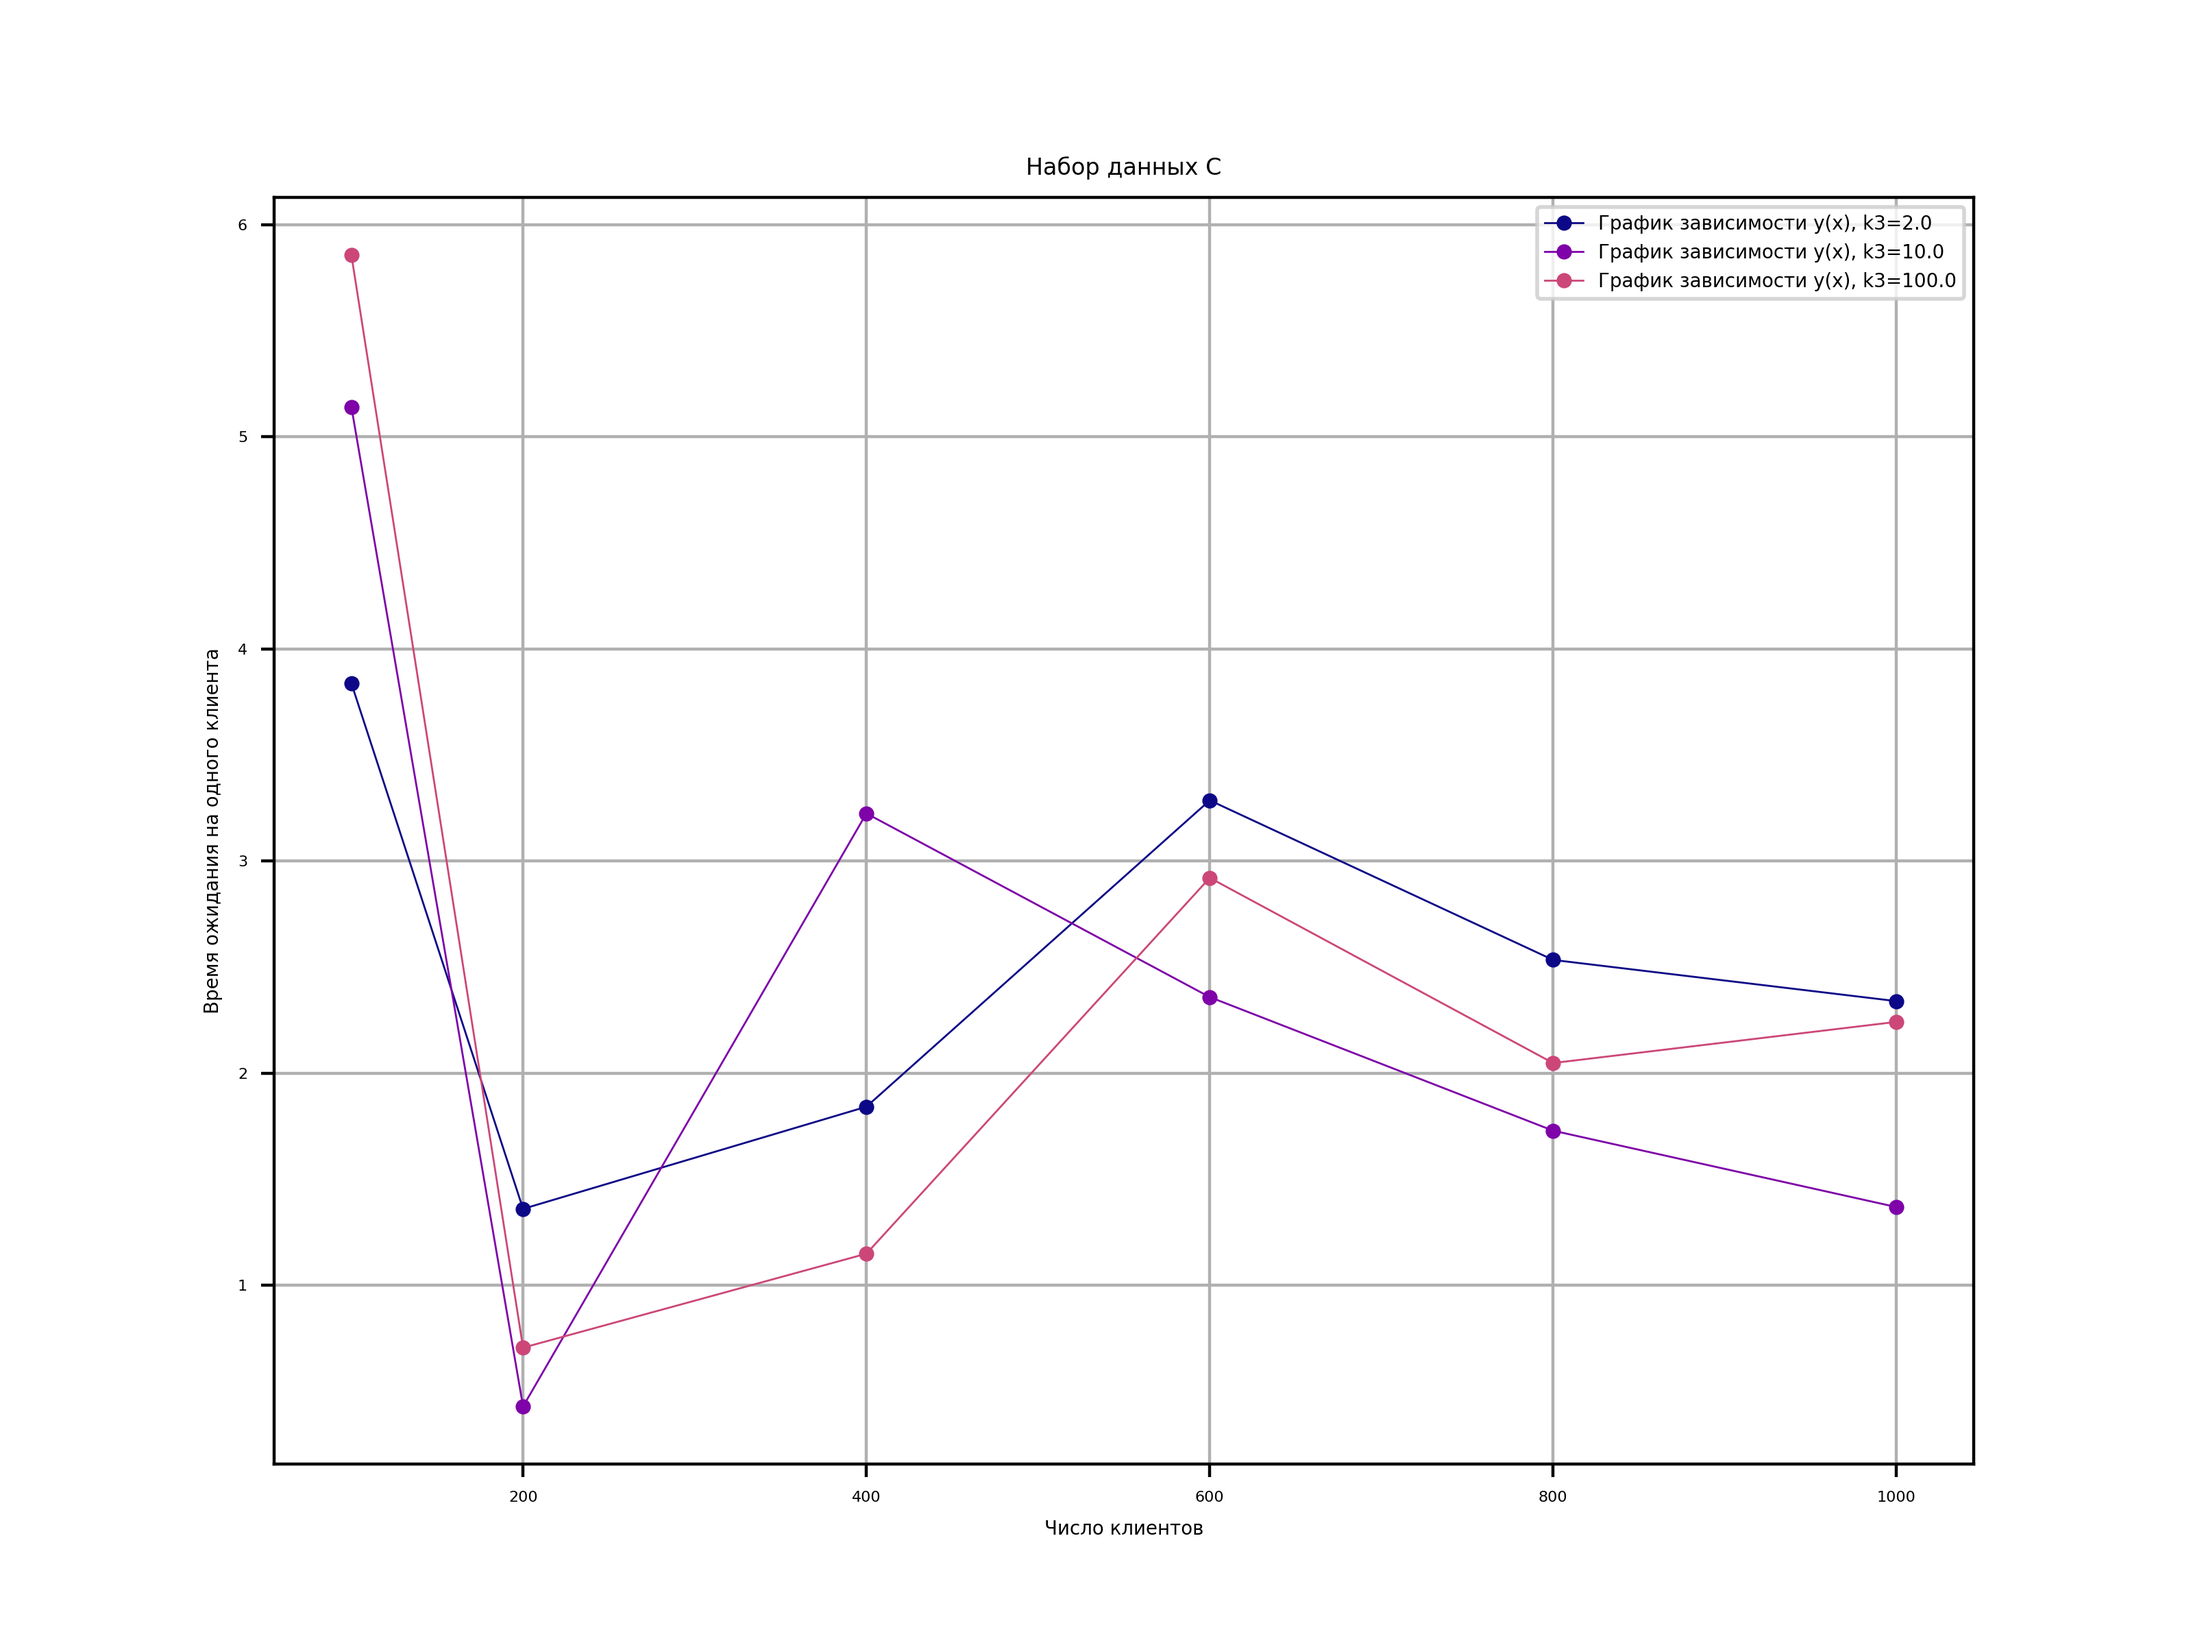
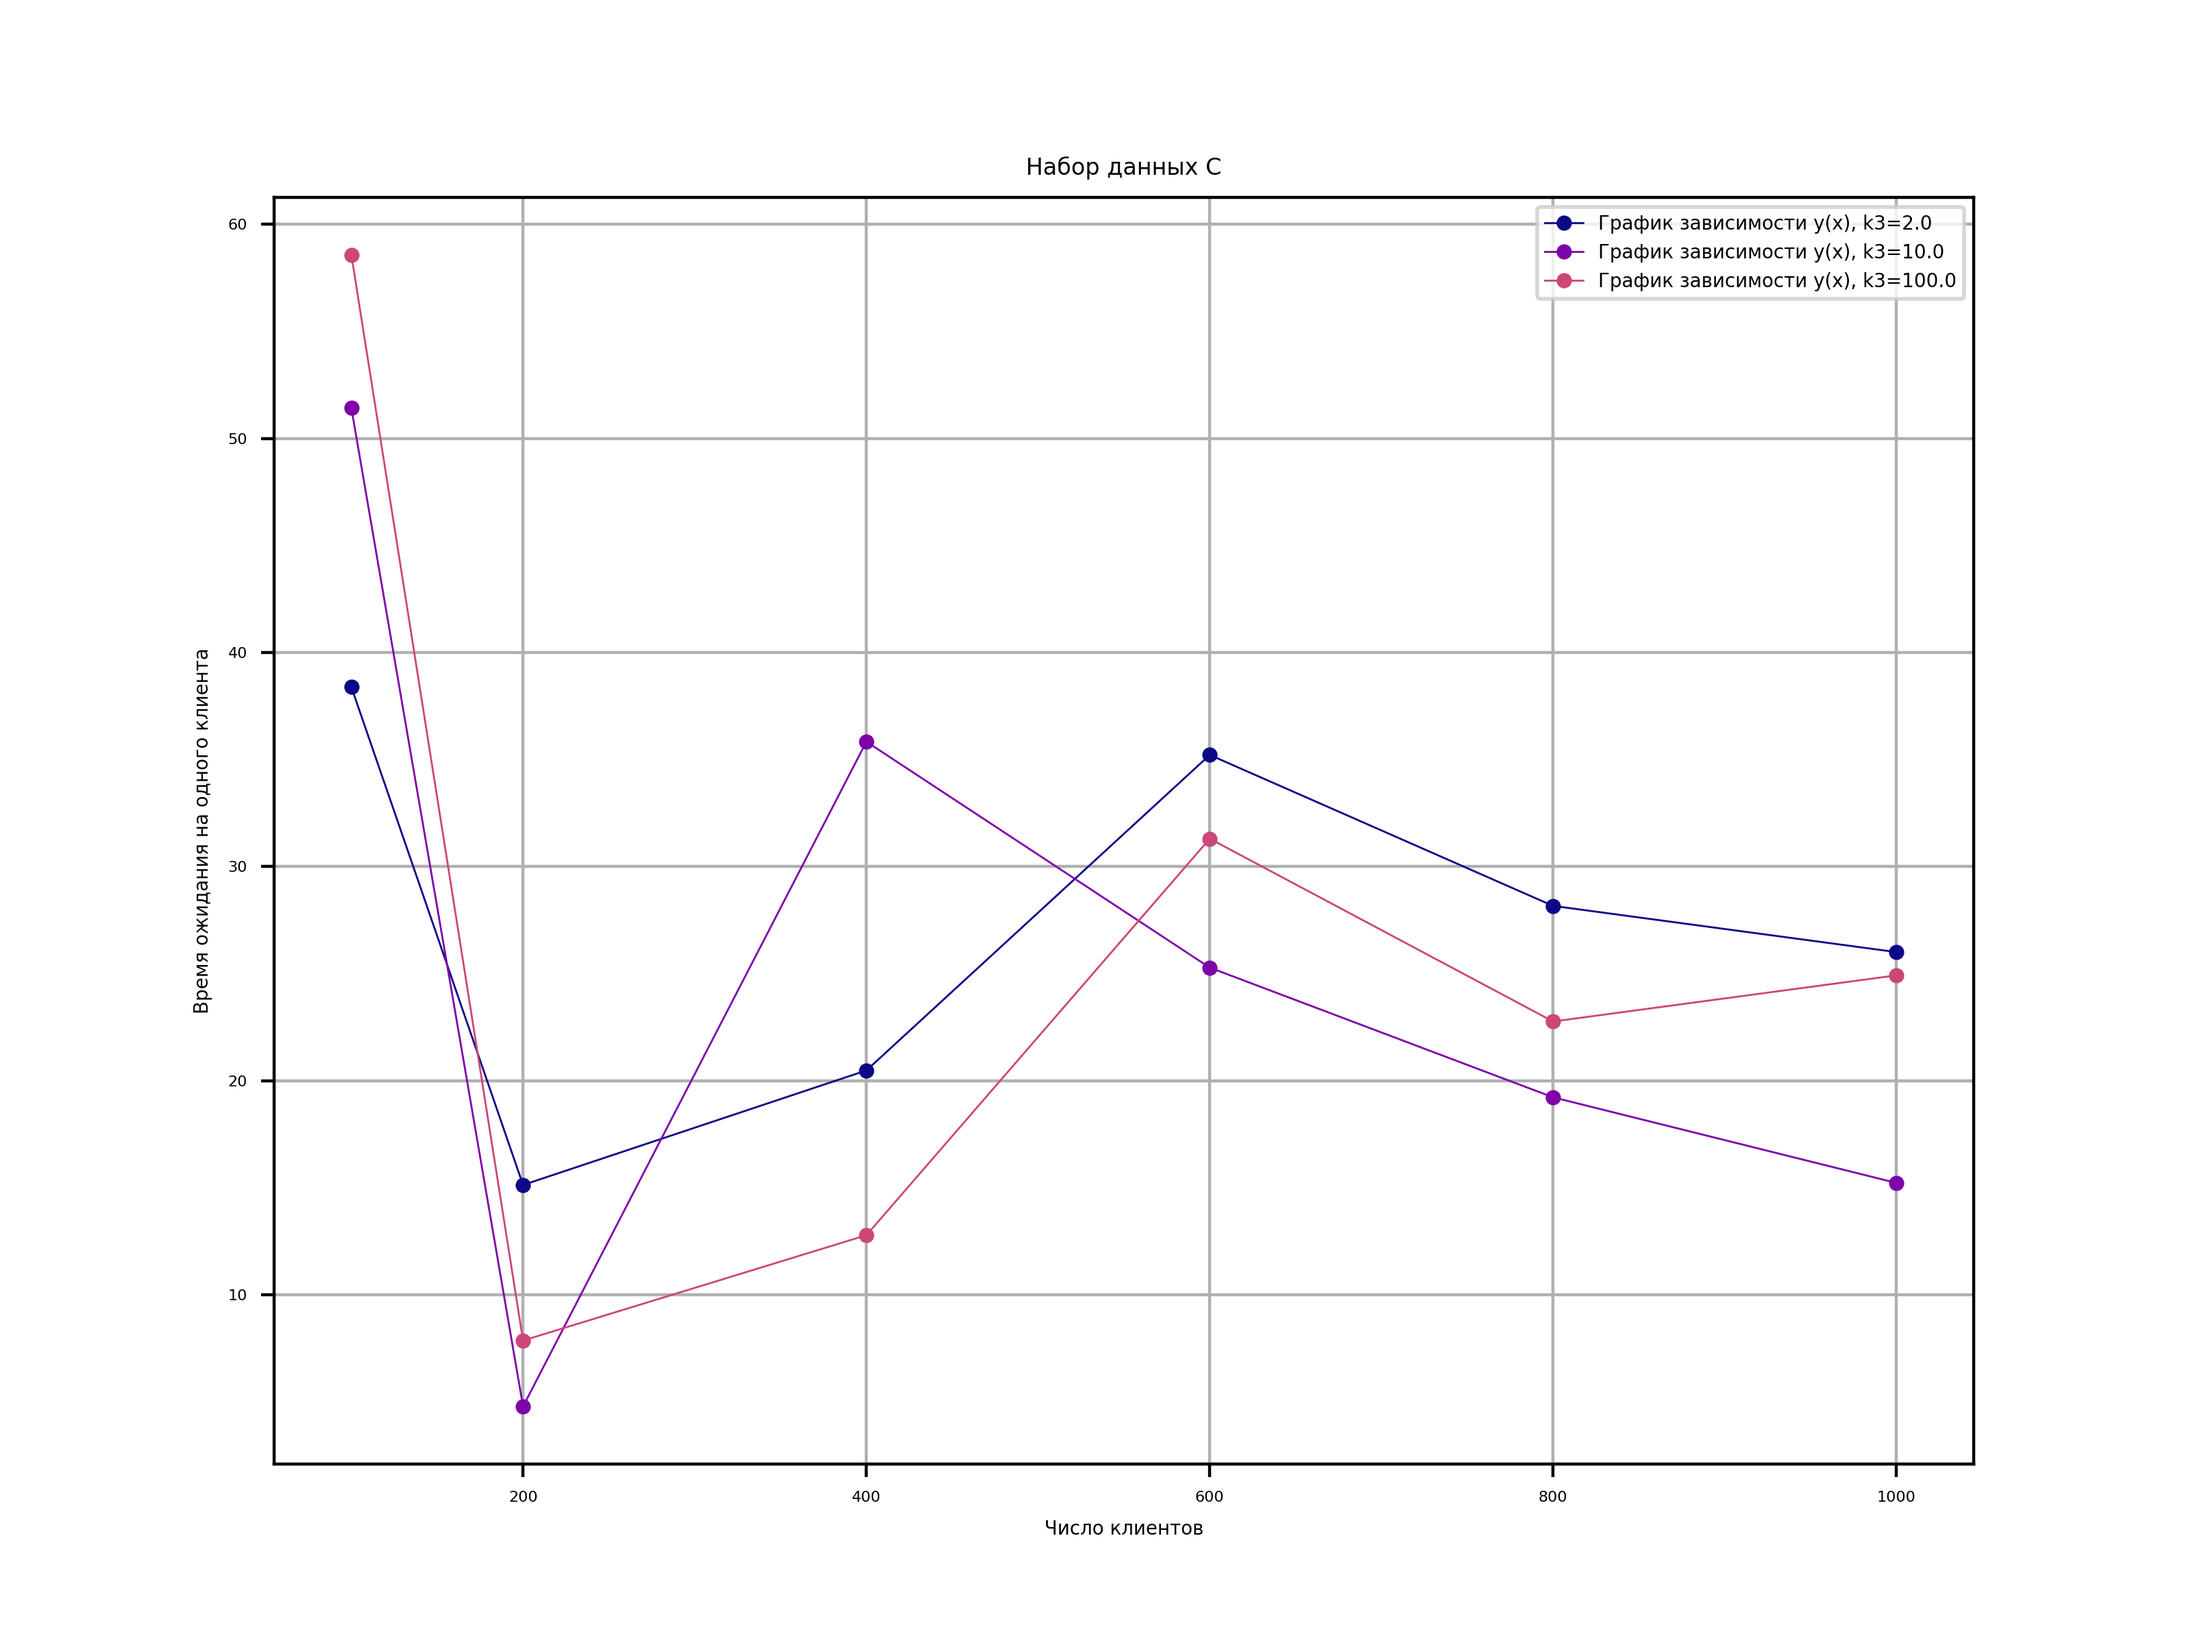
fix

diff --git a/launcher.py b/launcher.py
@@ -70,7 +70,7 @@ class Launcher:
             self._plotter.plot_data(self._testing_datasets, self._dims_array, self._k3_array,
                                     different_k3_arr_wait_time_per_customer,
                                     xlabel='Число клиентов',
-                                    ylabel='Время ожидания на одного клиента', mapping=self._mapping)
+                                    ylabel='Время ожидания на одно ТС', mapping=self._mapping)
         elif self._plot_stats == 'avg_late_time':
             self._plotter.plot_data(self._testing_datasets, self._dims_array, self._k3_array,
                                     different_k3_arr_late_time_per_customer,
@@ -115,12 +115,12 @@ class Launcher:
             self._plotter.plot_dataset_series_with_bns(self._testing_datasets, self._dims_array,
                                                        different_k3_arr_wait_time_per_customer[0], avg_wait_arr,
                                                        xlabel='Число клиентов',
-                                                       ylabel='Удельное время ожидания (сравнение с наилучшими решениями)', mapping=self._mapping)
+                                                       ylabel='Время ожидания на одно ТС (сравнение с наилучшими решениями)', mapping=self._mapping)
         elif self._plot_stats == 'avg_late_time_bns':
             self._plotter.plot_dataset_series_with_bns(self._testing_datasets, self._dims_array,
                                                        different_k3_arr_late_time_per_customer[0], avg_late_arr,
                                                        xlabel='Число клиентов',
-                                                       ylabel='Удельное время опоздания (сравнение с наилучшими решенияим)', mapping=self._mapping)
+                                                       ylabel='Время опоздания на одного клиента (сравнение с наилучшими решенияим)', mapping=self._mapping)
         else:
             print('Unrecognized plot_stats parameter. Setting it to distance...')
             self._plotter.plot_data(self._testing_datasets, self._dims_array, self._k3_array, different_k3_arr_dist,

diff --git a/statistics.py b/statistics.py
@@ -81,13 +81,16 @@ class Statistics:
                 dataset_data_wait_time = []
                 dataset_data_late_time = []
                 for i, dataset in enumerate(dataset_series):
+                    data = pd.read_fwf(self._BASE_DIR + '/data/' + dataset['data_file'])
+                    vehicle_number = int(data['VEHICLE_NUMBER'][0])
+
                     evaluation = pd.read_fwf(
                         self._BASE_DIR + '/result/evaluation/' + dataset['name'] + '_output_{}/evaluation.csv'.format(
                             int(k3)), header=None).values
 
                     evaluation = [row[0] for row in evaluation]
 
-                    dataset_data_wait_time.append(evaluation[1] / self._dims_array[i])
+                    dataset_data_wait_time.append(evaluation[1] / vehicle_number)
                     dataset_data_late_time.append(evaluation[2] / self._dims_array[i])
                 dataset_series_array_wait_time.append(dataset_data_wait_time)
                 dataset_series_array_late_time.append(dataset_data_late_time)
@@ -188,13 +191,16 @@ class Statistics:
             wait_arr_dataset = []
             late_arr_dataset = []
             for i, dataset in enumerate(dataset_series):
+                data = pd.read_fwf(self._BASE_DIR + '/data/' + dataset['data_file'])
+                vehicle_number = int(data['VEHICLE_NUMBER'][0])
+
                 wait_data = pd.read_fwf(
                     self._BASE_DIR + '/bns_wait_time/' + dataset['name'] + '_mod/wait_times.txt',
                     header=None)
                 late_data = pd.read_fwf(
                     self._BASE_DIR + '/bns_late_time/' + dataset['name'] + '_mod/late_times.txt',
                     header=None)
-                wait_arr_dataset.append(sum(wait_data[0]) / self._dims_array[i])
+                wait_arr_dataset.append(sum(wait_data[0]) / vehicle_number)
                 late_arr_dataset.append(sum(late_data[0]) / self._dims_array[i])
             wait_arr_series.append(wait_arr_dataset)
             late_arr_series.append(late_arr_dataset)
